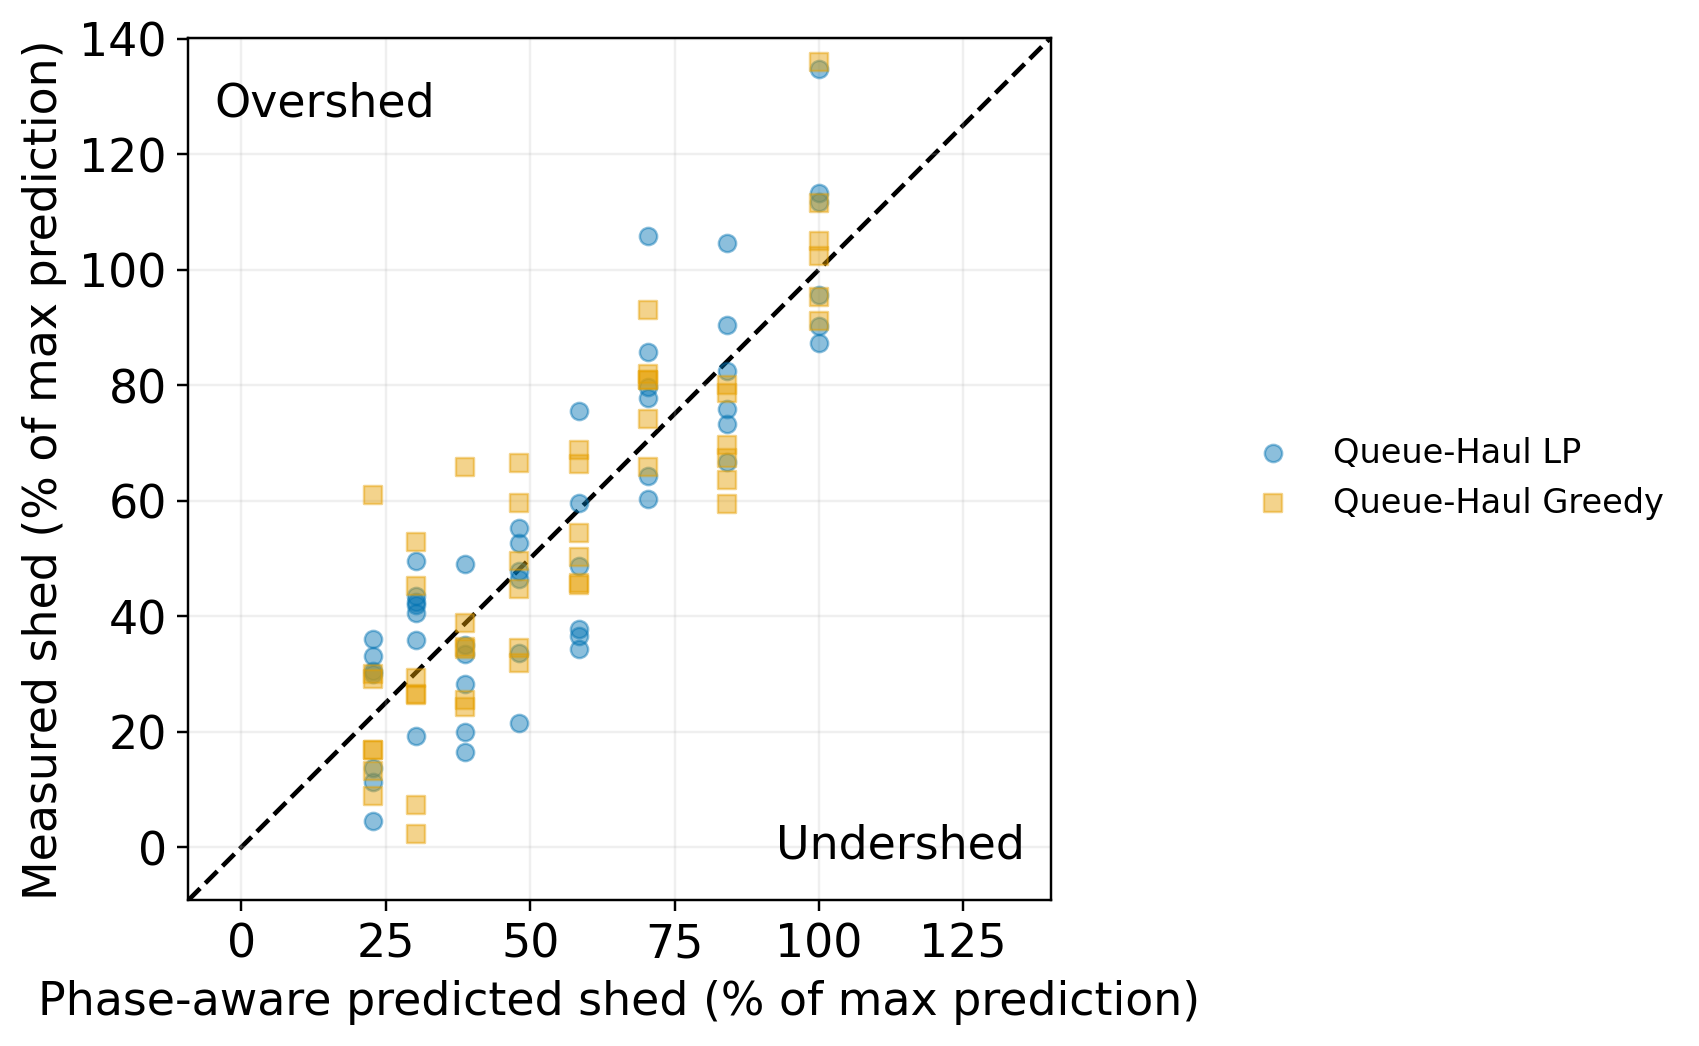
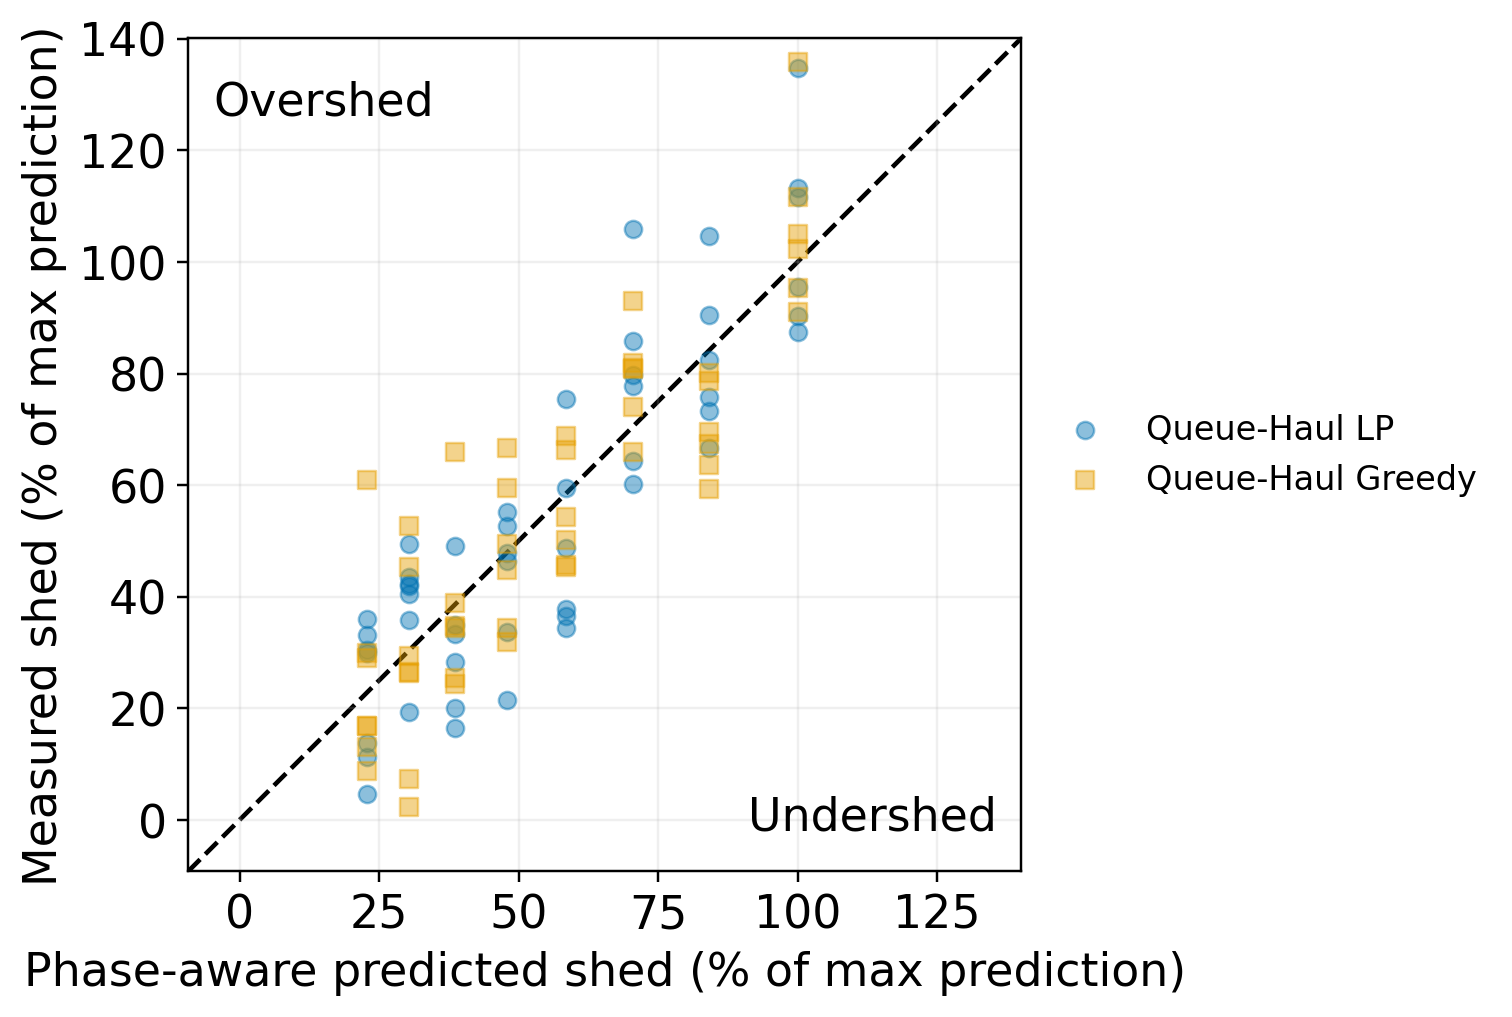
Anchor parity legend beside axes

diff --git a/agent-migrate/queue-haul/tests/test_hardware_power_parity.py b/agent-migrate/queue-haul/tests/test_hardware_power_parity.py
@@ -106,12 +106,13 @@ def test_plot_preserves_all_methods_repeats_and_parity(tmp_path, monkeypatch):
     assert all(len(collection.get_offsets()) == 2 for collection in axis.collections)
     assert {collection.get_label() for collection in axis.collections} == \
         {"Queue-Haul LP", "Queue-Haul Greedy"}
-    legend = plt.gcf().legends[0]
+    legend = axis.get_legend()
     assert {text.get_text() for text in legend.texts} == \
         {"Queue-Haul LP", "Queue-Haul Greedy"}
     assert {text.get_fontsize() for text in legend.texts} == \
         {plot_style.LEGEND_FONT_SIZE}
     assert not plt.gcf().texts
+    assert legend.get_bbox_to_anchor()._bbox.x0 == pytest.approx(1.02)
     assert [path.suffix for path, _ in saves] == [".png", ".pdf"]
     assert all(kwargs["bbox_inches"] == "tight" for _, kwargs in saves)
     assert {text.get_text() for text in axis.texts} >= {"Overshed", "Undershed"}

diff --git a/agent-migrate/queue-haul/plot_hardware_power_parity.py b/agent-migrate/queue-haul/plot_hardware_power_parity.py
@@ -214,8 +214,8 @@ def write_plot(rows: list[dict], _scale: float, out: Path) -> None:
     axis.set_aspect("equal", adjustable="box")
     axis.grid(alpha=.2)
     handles, labels = axis.get_legend_handles_labels()
-    fig.legend(handles, labels, frameon=False,
-               loc="center left", bbox_to_anchor=(.66, .54))
+    axis.legend(handles, labels, frameon=False, loc="center left",
+                bbox_to_anchor=(1.02, .5), borderaxespad=0)
     fig.tight_layout(rect=(0, 0, .65, 1))
     out.parent.mkdir(parents=True, exist_ok=True)
     for suffix in ("png", "pdf"):
